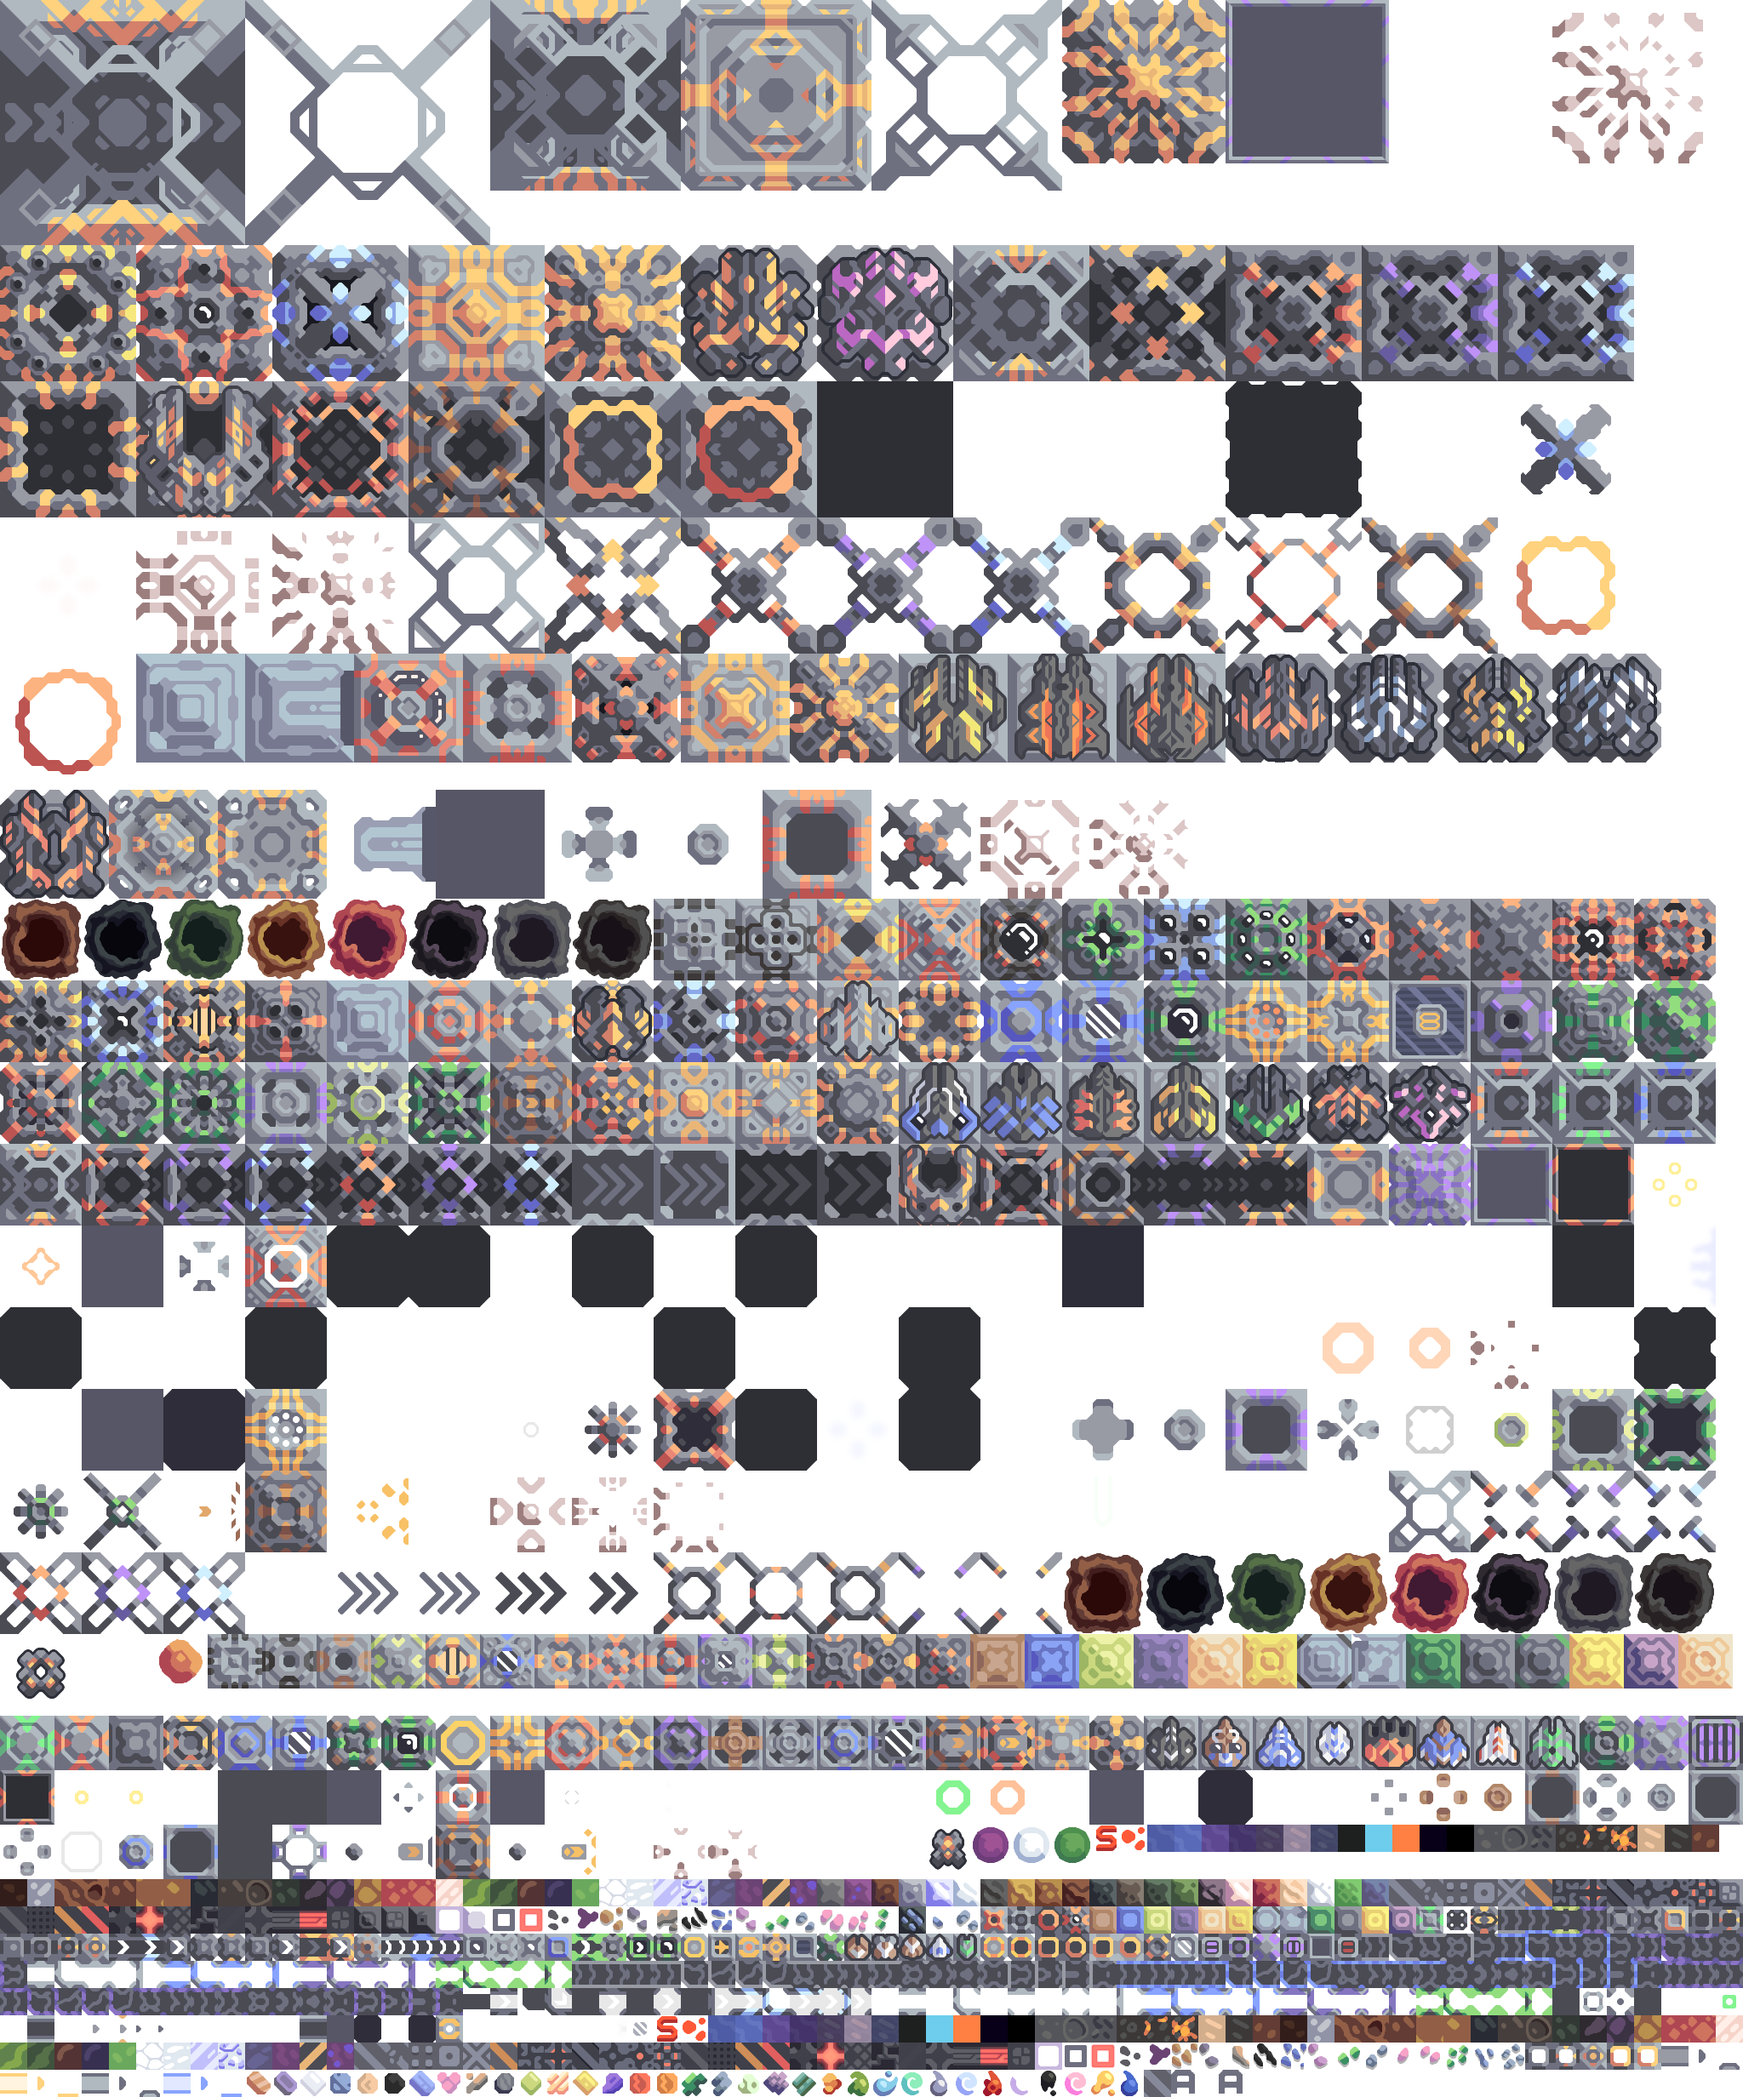
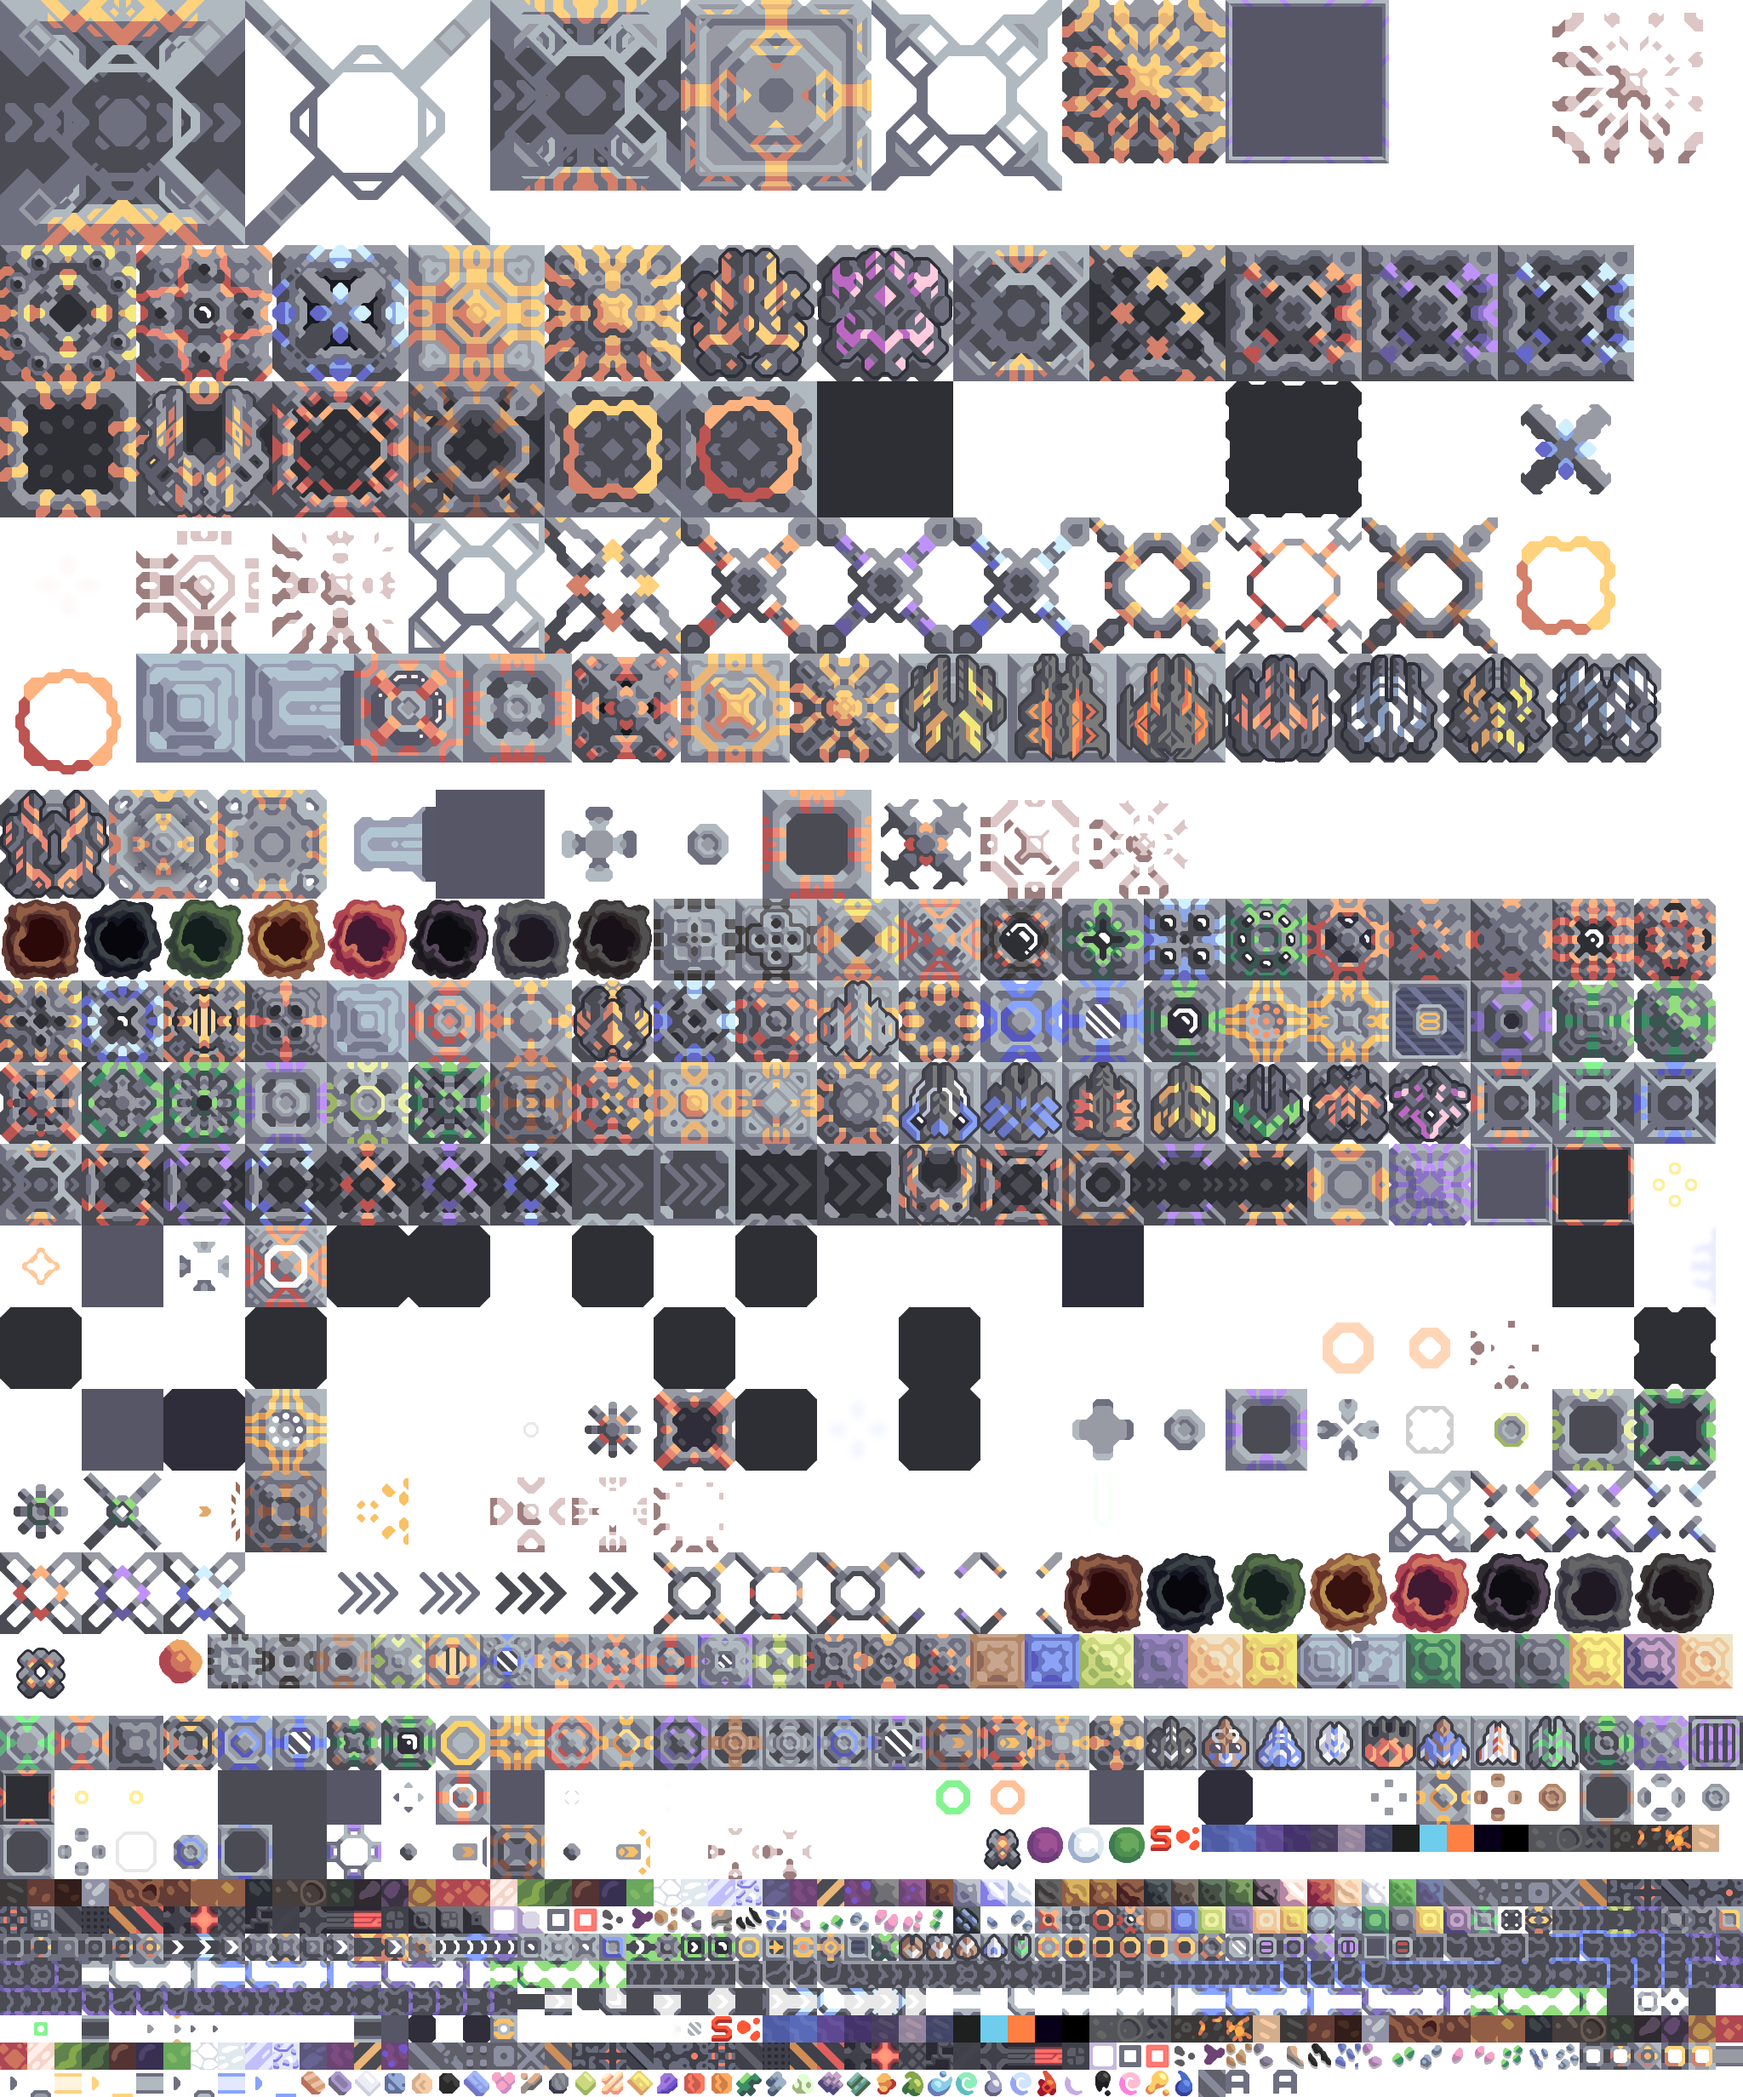
fix(rendu): un rotor ne doit pas tourner par-dessus sa propre copie figee
`block-<nom>-full` est la plaque, le rotor et le couvercle aplatis en une
image, rotor a l arret. Une copie tournante posee dessus laisse la copie
figee visible en dessous, ce qui se voit d autant mieux que le rotor est
peu symetrique.

Les quatre blocs qui nomment un rotor dans leur chaine de dessin sont
donc dessines comme les foreuses le sont deja, en trois couches : la
plaque nue, le rotor a l angle atteint, le couvercle. Le packeur sort la
plaque nue pour eux aussi, ce qu il ne faisait que pour les foreuses -
d ou un turbogenerateur qui n en avait pas.

Et la vitesse de rotation vient du bloc et plus d une constante : le
separateur tourne a 3, le pulverisateur a 2.

Verifie a l ecran sur un pulverisateur, un separateur et un
turbogenerateur.

Claude-Session: https://claude.ai/code/session_01QuaNELyjp3KBxkJcF7jPtB

Changed region(s): [[0.0, 0.8438, 1.0, 1.0]]

diff --git a/site/public/forge/live.js b/site/public/forge/live.js
@@ -234,45 +234,51 @@ export function drawRunning(context, gear, build, tile, size, box, scale, ticks)
   const side = size * scale;
   const heat = running(build, ticks);
 
-  /* A drill's rotor, which is in no drawing chain: `Drill` draws its own layers in `draw()`
-     rather than delegating to a `DrawBlock`, so there is nothing to dump and the sprites
-     are the only thing that says a block has one. Skipped for anything that **does** have a
-     chain, which knows better.
+  /* A block with a turning part is drawn from its own three layers, never from the
+     flattened sprite: `block-<name>-full` has the rotor baked into it standing still, and a
+     turning copy over that leaves the still one showing through underneath.
+
+     Two sources for the rotor and they do not overlap. A crafter names it in its drawing
+     chain, with a speed. A drill has no chain at all - `Drill.draw` stacks its own layers
+     rather than delegating to a `DrawBlock` - so there is nothing to dump and the sprite
+     names are the only thing that says it has one.
 
      `Drill.draw`: the angle is `timeDrilled * rotateSpeed`, and `timeDrilled` only advances
      while the drill is warm, so one with nothing under it slows to a stop rather than
      freezing mid-turn. */
-  const rotor = atlas?.sprites?.[`${name}#rotator`] || atlas?.sprites?.[`${name}#spinner`];
+  const spins = (build.block.drawers || []).find((one) => one.kind === "rotator");
+  const rotor = spins
+    ? atlas?.sprites?.[`${name}#${spins.suffix.slice(1)}`]
+    : (atlas?.sprites?.[`${name}#rotator`] || atlas?.sprites?.[`${name}#spinner`]);
   const plate = atlas?.sprites?.[`${name}#base`];
-  if (rotor && plate && !(build.block.drawers || []).length) {
-    const turned = (spun.get(build) || 0) + (build.state.warmup ?? heat.warmup) * ticks;
-    spun.set(build, turned);
+  if (!rotor || !plate) return false;
 
-    context.drawImage(sheet, plate.x, plate.y, plate.w, plate.h,
+  const turned = (spun.get(build) || 0) + (build.state.warmup ?? heat.warmup) * ticks;
+  spun.set(build, turned);
+
+  context.drawImage(sheet, plate.x, plate.y, plate.w, plate.h,
+                    spot.cx - side / 2, spot.cy - side / 2, side, side);
+  context.save();
+  context.translate(spot.cx, spot.cy);
+  context.rotate(-turned * (spins?.rotate_speed ?? 2) * Math.PI / 180);
+  context.drawImage(sheet, rotor.x, rotor.y, rotor.w, rotor.h,
+                    -side / 2, -side / 2, side, side);
+  context.restore();
+
+  const cap = atlas?.sprites?.[`${name}#top`];
+  if (cap) {
+    context.drawImage(sheet, cap.x, cap.y, cap.w, cap.h,
                       spot.cx - side / 2, spot.cy - side / 2, side, side);
-    context.save();
-    context.translate(spot.cx, spot.cy);
-    context.rotate(-turned * 2 * Math.PI / 180);
-    context.drawImage(sheet, rotor.x, rotor.y, rotor.w, rotor.h,
-                      -side / 2, -side / 2, side, side);
-    context.restore();
-
-    const cap = atlas?.sprites?.[`${name}#top`];
-    if (cap) {
-      context.drawImage(sheet, cap.x, cap.y, cap.w, cap.h,
-                        spot.cx - side / 2, spot.cy - side / 2, side, side);
-    }
-    // The ore a drill is pulling out, in that ore's colour. `drawMineItem`.
-    const seam = atlas?.sprites?.[`${name}#item`];
-    const dug = build.node?.dug?.resource;
-    if (seam && dug) {
-      const colour = gear.catalogue?.items?.[dug]?.color || "#ffffff";
-      context.drawImage(tinted(sheet, seam, `${name}#item`, colour),
-                        spot.cx - side / 2, spot.cy - side / 2, side, side);
-    }
-    return true;
   }
-  return false;
+  // The ore a drill is pulling out, in that ore's colour. `Drill.drawMineItem`.
+  const seam = atlas?.sprites?.[`${name}#item`];
+  const dug = build.node?.dug?.resource;
+  if (seam && dug) {
+    const colour = gear.catalogue?.items?.[dug]?.color || "#ffffff";
+    context.drawImage(tinted(sheet, seam, `${name}#item`, colour),
+                      spot.cx - side / 2, spot.cy - side / 2, side, side);
+  }
+  return true;
 }
 
 /**
@@ -291,6 +297,9 @@ export function drawLayers(context, gear, build, tile, size, box, scale, ticks) 
      in what colour, breathing how fast. Read rather than guessed - an electrolyser's glow
      is lilac and a kiln's is red, and nothing in the file name says so. */
   for (const layer of chain) {
+    // The rotor is already down, laid by `drawRunning` between the plate and the cap,
+    // because that is the only place it does not cover a still copy of itself.
+    if (layer.kind === "rotator") continue;
     paintLayer(context, gear, build, layer, spot, size * scale, heat, ticks);
   }
 }

diff --git a/tools/build_sprites.py b/tools/build_sprites.py
@@ -163,7 +163,9 @@ def main() -> None:
         # `block-<name>-full` is base, rotator and top flattened into one image with the
         # rotator at rest. Turning a copy of the rotator over that leaves the baked one
         # showing through underneath, so a drill that spins needs its plate on its own.
-        if (block + "-rotator" in sprites or block + "-spinner" in sprites)                 and block in sprites:
+        turning = any(one["kind"] == "rotator"
+                      for one in catalogue["blocks"][block].get("drawers", []))
+        if (turning or block + "-rotator" in sprites or block + "-spinner" in sprites)                 and block in sprites:
             wanted.append((f"{block}#base", sprites[block]))
 
     # The ground. One sprite each, no edge variants for now: a painted patch of copper ore
